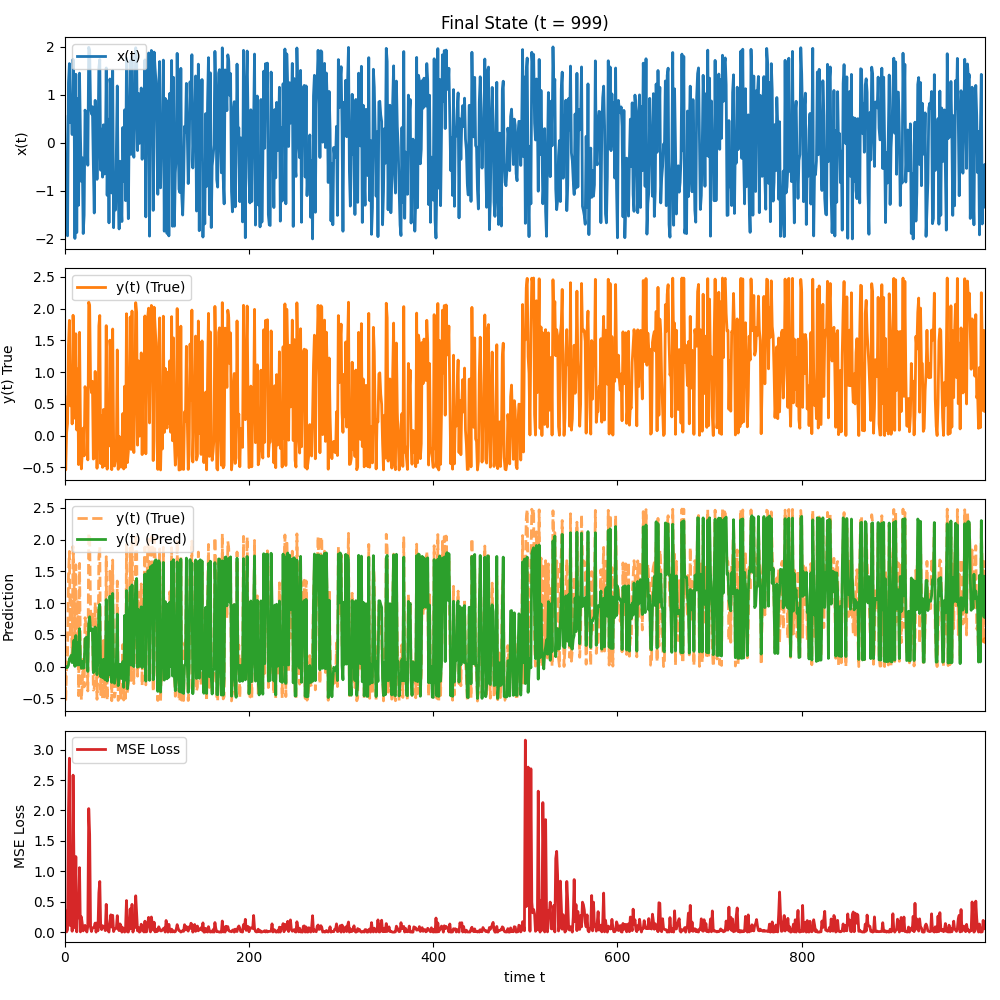
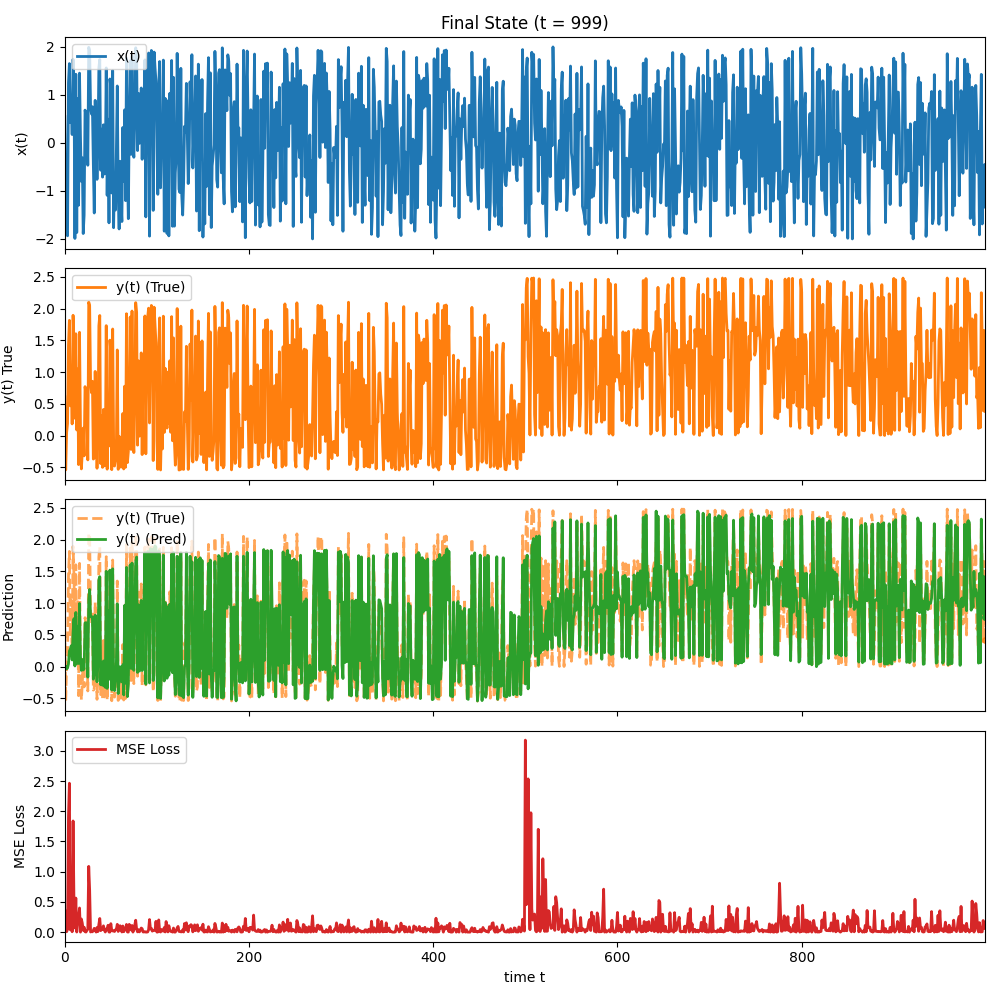
update seems to work

diff --git a/src/eclair.py b/src/eclair.py
@@ -47,7 +47,7 @@ class Eclair:
 
         #HLS API
         self.lib = None
-        self.c_update_func = None
+        self.c_bridge_func = None
         self.input_dim = self.layer_sizes[0]
         self.output_dim = self.layer_sizes[-1]
 
@@ -383,25 +383,26 @@ class Eclair:
             raise
 
         try:
-            self.c_update_func = self.lib.eclair_update
+            self.c_bridge_func = self.lib.bridge
         except AttributeError:
-            print("Error: Could not find function 'eclair_update' in shared library.")
+            print("Error: Could not find function 'bridge' in shared library.")
             raise
 
         #Set the types
         input_ptr_type = ctypes.POINTER(ctypes.c_float)
         output_ptr_type = ctypes.POINTER(ctypes.c_float)
         feedback_ptr_type = ctypes.POINTER(ctypes.c_float)
+        zero_grad_type = ctypes.c_uint
 
-        self.c_update_func.argtypes = [input_ptr_type, output_ptr_type, feedback_ptr_type]
-        self.c_update_func.restype = None
+        self.c_bridge_func.argtypes = [input_ptr_type, output_ptr_type, feedback_ptr_type, zero_grad_type]
+        self.c_bridge_func.restype = None
 
         print("Compilation successful. Interface is ready.")
 
-    def update(self, input_data, feedback):
+    def call(self, input_data, feedback, zero_grad):
         """Updates the model with a new input and feedback."""
 
-        if self.c_update_func is None: raise RuntimeError("Model is not compiled. Call .compile() first.")
+        if self.c_bridge_func is None: raise RuntimeError("Model is not compiled. Call .compile() first.")
         if not isinstance(input_data, np.ndarray): input_data = np.array(input_data)
         if not isinstance(feedback, np.ndarray): feedback = np.array(feedback)
         input_data_flat = input_data.flatten()
@@ -420,7 +421,9 @@ class Eclair:
         pred_data = np.zeros(self.output_dim, dtype=np.float32)
         pred_ptr = pred_data.ctypes.data_as(ctypes.POINTER(ctypes.c_float))
 
-        self.c_update_func(x_ptr, pred_ptr, feedback_ptr)
+        is_zero_grad = ctypes.c_uint(int(zero_grad))
+
+        self.c_bridge_func(x_ptr, pred_ptr, feedback_ptr, is_zero_grad)
 
         if self.output_dim == 1: return pred_data[0]
         return pred_data

diff --git a/demos/function_tracking/eclair_model/firmware/bridge.cpp b/demos/function_tracking/eclair_model/firmware/bridge.cpp
@@ -10,22 +10,20 @@
 #include "parameters.h"
 #include "eclair.h"        
 
-// --- Define the global model state ---
-Params P;
-Context C;
-
 // --- Create static buffers for casting ---
 // These hold the data in the HLS-specific types
 static input_t hls_input[INPUT_DIM];
 static output_t hls_output[OUTPUT_DIM];
 static output_t hls_feedback[OUTPUT_DIM];
+static ap_uint<2> hls_zero_grad;
 
 // ---  C-style wrapper for Python ctypes ---
 extern "C" {
-    void eclair_update(
+    void bridge(
         const float* in,     
         float* out,    
-        const float* feedback
+        const float* feedback,
+        const uint zero_grad
     ) {
         
         // --- Cast and copy input data ---
@@ -38,8 +36,11 @@ extern "C" {
             hls_feedback[o] = output_t(feedback ? feedback[o] : 0.0f);
         }
 
+        //Cast and copy zero grad mode
+        hls_zero_grad =  ap_uint<2>(zero_grad);
+
         // --- Call the HLS function ---
-        eclair(hls_input, hls_output, hls_feedback);
+        eclair(hls_input, hls_output, hls_feedback, hls_zero_grad);
         
         // --- Cast and copy output data back ---
         for (int i = 0; i < OUTPUT_DIM; ++i) {

diff --git a/src/templates/eclair/bridge.cpp b/src/templates/eclair/bridge.cpp
@@ -10,22 +10,20 @@
 #include "parameters.h"
 #include "eclair.h"        
 
-// --- Define the global model state ---
-Params P;
-Context C;
-
 // --- Create static buffers for casting ---
 // These hold the data in the HLS-specific types
 static input_t hls_input[INPUT_DIM];
 static output_t hls_output[OUTPUT_DIM];
 static output_t hls_feedback[OUTPUT_DIM];
+static ap_uint<2> hls_zero_grad;
 
 // ---  C-style wrapper for Python ctypes ---
 extern "C" {
-    void eclair_update(
+    void bridge(
         const float* in,     
         float* out,    
-        const float* feedback
+        const float* feedback,
+        const uint zero_grad
     ) {
         
         // --- Cast and copy input data ---
@@ -38,8 +36,11 @@ extern "C" {
             hls_feedback[o] = output_t(feedback ? feedback[o] : 0.0f);
         }
 
+        //Cast and copy zero grad mode
+        hls_zero_grad =  ap_uint<2>(zero_grad);
+
         // --- Call the HLS function ---
-        eclair(hls_input, hls_output, hls_feedback);
+        eclair(hls_input, hls_output, hls_feedback, hls_zero_grad);
         
         // --- Cast and copy output data back ---
         for (int i = 0; i < OUTPUT_DIM; ++i) {

diff --git a/demos/function_tracking/eclair_train.py b/demos/function_tracking/eclair_train.py
@@ -153,27 +153,28 @@ config = {
 }
 
 model = Eclair(config)
-
-"""
 model.compile()
 
 #------------------------------- FEEDBACK LOOP -----------------------------
-feedback_stream = [0] #Initial feedback is 0
-
 y_pred_series = []
 mse_loss_series = []
 
 for i in range(len(t_series)):
-
     t, x, y = t_series[i], x_series[i], y_series[i]
-    pred = model.update([x], feedback_stream[-1])
+
+    #Do the inference
+    pred = model.call([x], 0, 1)
     y_pred_series.append(pred)
 
+    #Compute the loss
     mse_loss = np.mean((y - pred)**2)
     mse_loss_series.append(mse_loss)
 
-    feedback = pred - y
-    feedback_stream.append(feedback)
+    #Calculate the feedback
+    feedback = 2*(pred - y)
+
+    #Update the model
+    model.call([x], feedback, 0)
 
     if (i + 1) % 10 == 0:
         print(f"Step {i+1}/{NUM_SAMPLES}, Current MSE Loss: {mse_loss:.6f}")
@@ -190,4 +191,3 @@ save_static_four_plots(
     out_file="plots/ECLAIR.png",
     figsize=(10, 10) # Make figure taller for 4 plots
 )
-"""

diff --git a/demos/function_tracking/eclair_model/firmware/eclair.h b/demos/function_tracking/eclair_model/firmware/eclair.h
@@ -5,6 +5,7 @@
 
 void eclair(const input_t input[INPUT_DIM], 
             output_t output[OUTPUT_DIM], 
-            const output_t feedback[OUTPUT_DIM]);
+            const output_t feedback[OUTPUT_DIM],
+            const ap_uint<2> zero_grad);
 
 #endif

diff --git a/src/templates/eclair/eclair.h b/src/templates/eclair/eclair.h
@@ -5,6 +5,7 @@
 
 void eclair(const input_t input[INPUT_DIM], 
             output_t output[OUTPUT_DIM], 
-            const output_t feedback[OUTPUT_DIM]);
+            const output_t feedback[OUTPUT_DIM],
+            const ap_uint<2> zero_grad);
 
 #endif
